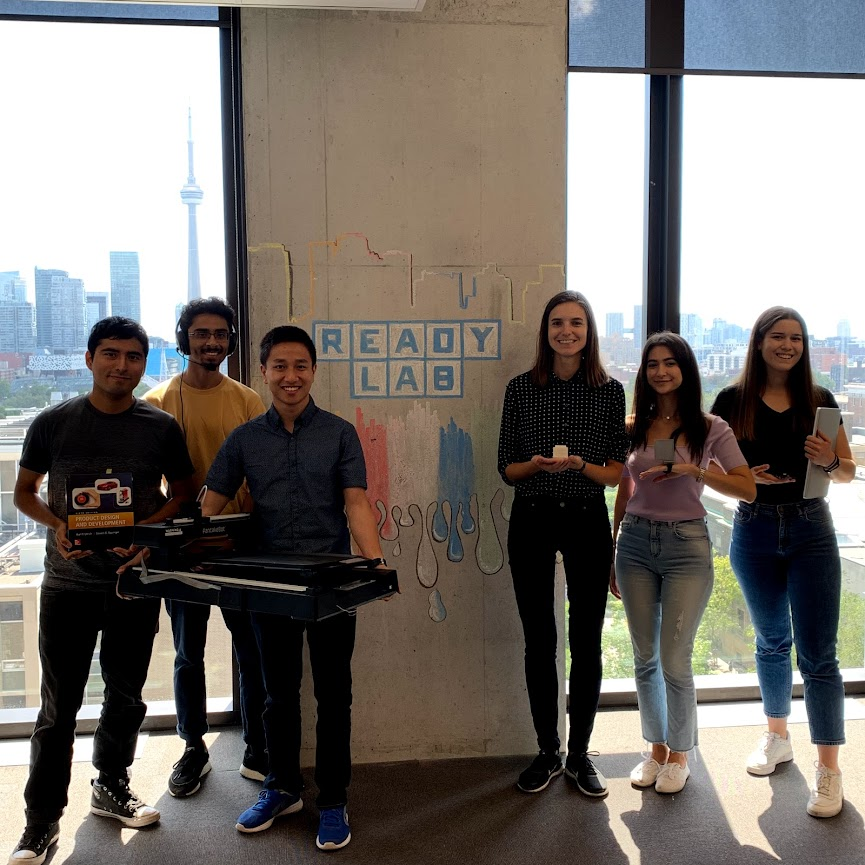
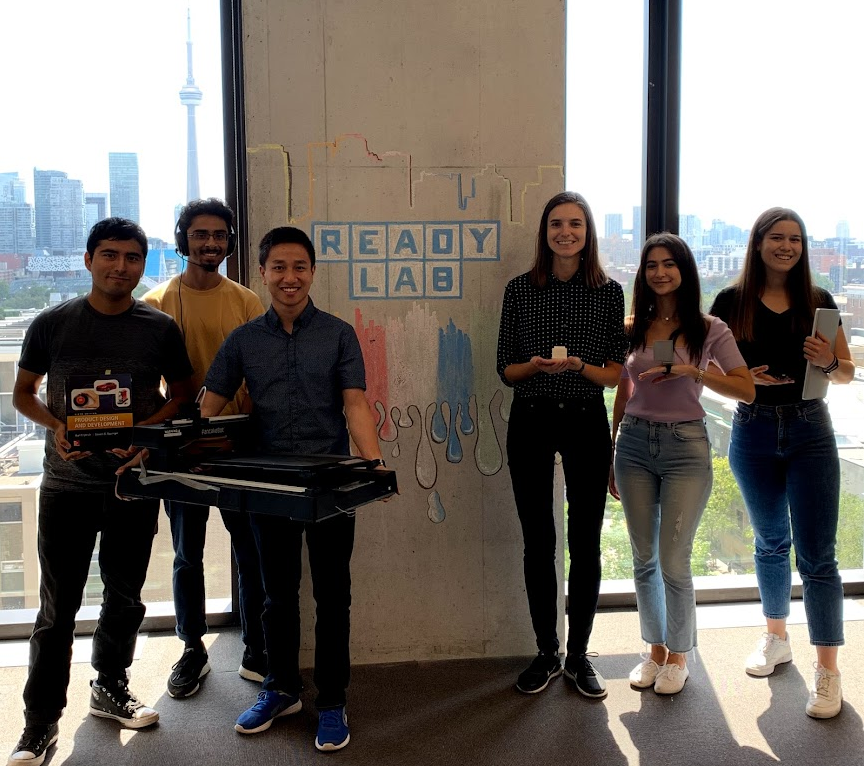
Style fix to Home page

diff --git a/src/routes/Home.tsx b/src/routes/Home.tsx
@@ -83,7 +83,7 @@ export default function Home() {
                     <CarouselContent>
                         {lab_photos.map((image) => (
                             <CarouselItem key={image}>
-                                <img src={`src/assets/lab_photos/${image}`} alt={image} className="w-full h-auto" />
+                                <img src={`src/assets/lab_photos/${image}`} alt={image} className="w-full h-[900px] object-contain" />
                             </CarouselItem>
                         ))}
                     </CarouselContent>
@@ -92,7 +92,7 @@ export default function Home() {
                 </Carousel>
             </div>
 
-            <div className="grid grid-cols-1 md:grid-cols-3 gap-6 px-20 mt-10">
+            <div className="grid grid-cols-1 md:grid-cols-3 gap-6 px-20 mt-20">
                 {teamMembers
                     .filter((member) => member.active)
                     .sort((a, b) => roleOrder[a.role] - roleOrder[b.role])
@@ -118,7 +118,7 @@ export default function Home() {
             </div>
             
             <div className="text-4xl font-bold text-center my-20">Partners</div>
-            <div className="grid grid-cols-1 md:grid-cols-4 gap-10 px-10 mt-5">
+            <div className="grid grid-cols-1 md:grid-cols-4 gap-10 px-10 mt-5 justify-items-center">
                 <img src={`src/assets/logos/safran.png`} alt="Safran Logo" className="w-auto h-16" />
                 <img src={`src/assets/logos/SSHRC.png`} alt="SSHRC Logo" className="w-auto h-16" />
                 <img src={`src/assets/logos/CFI.png`} alt="CFI Logo" className="w-auto h-16" />
@@ -134,7 +134,7 @@ export default function Home() {
             </div>
             
             <div className="text-4xl font-bold text-center my-20">Collaborators</div>
-            <div className="grid grid-cols-1 md:grid-cols-4 gap-10 px-10 mt-5">
+            <div className="grid grid-cols-1 md:grid-cols-4 gap-10 px-10 mt-5 justify-items-center">
                 <img src={`src/assets/logos/waterloo.png`} alt="University of Waterloo Logo" className="w-auto h-16" />
                 <img src={`src/assets/logos/TUM.png`} alt="Technical University of Munich Logo" className="w-auto h-16" />
                 <img src={`src/assets/logos/Tufts.png`} alt="Tufts University Logo" className="w-auto h-16" />
